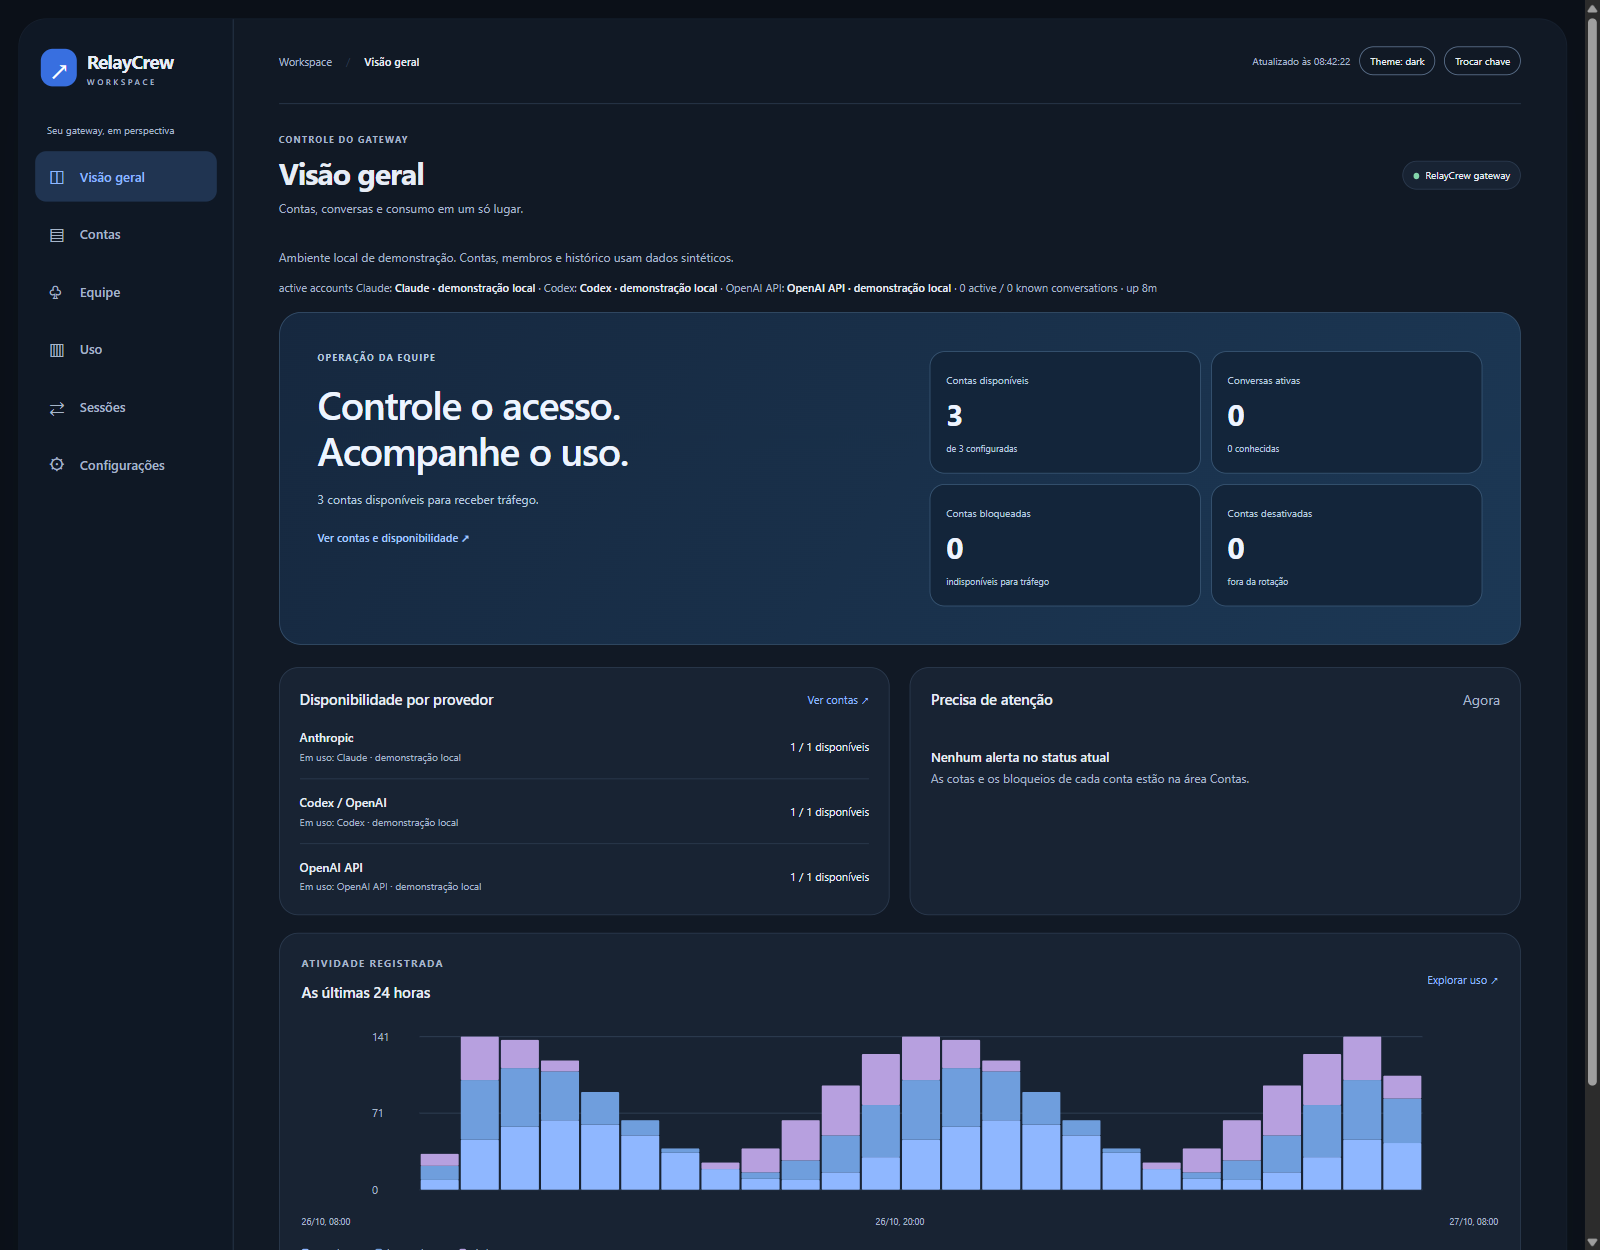
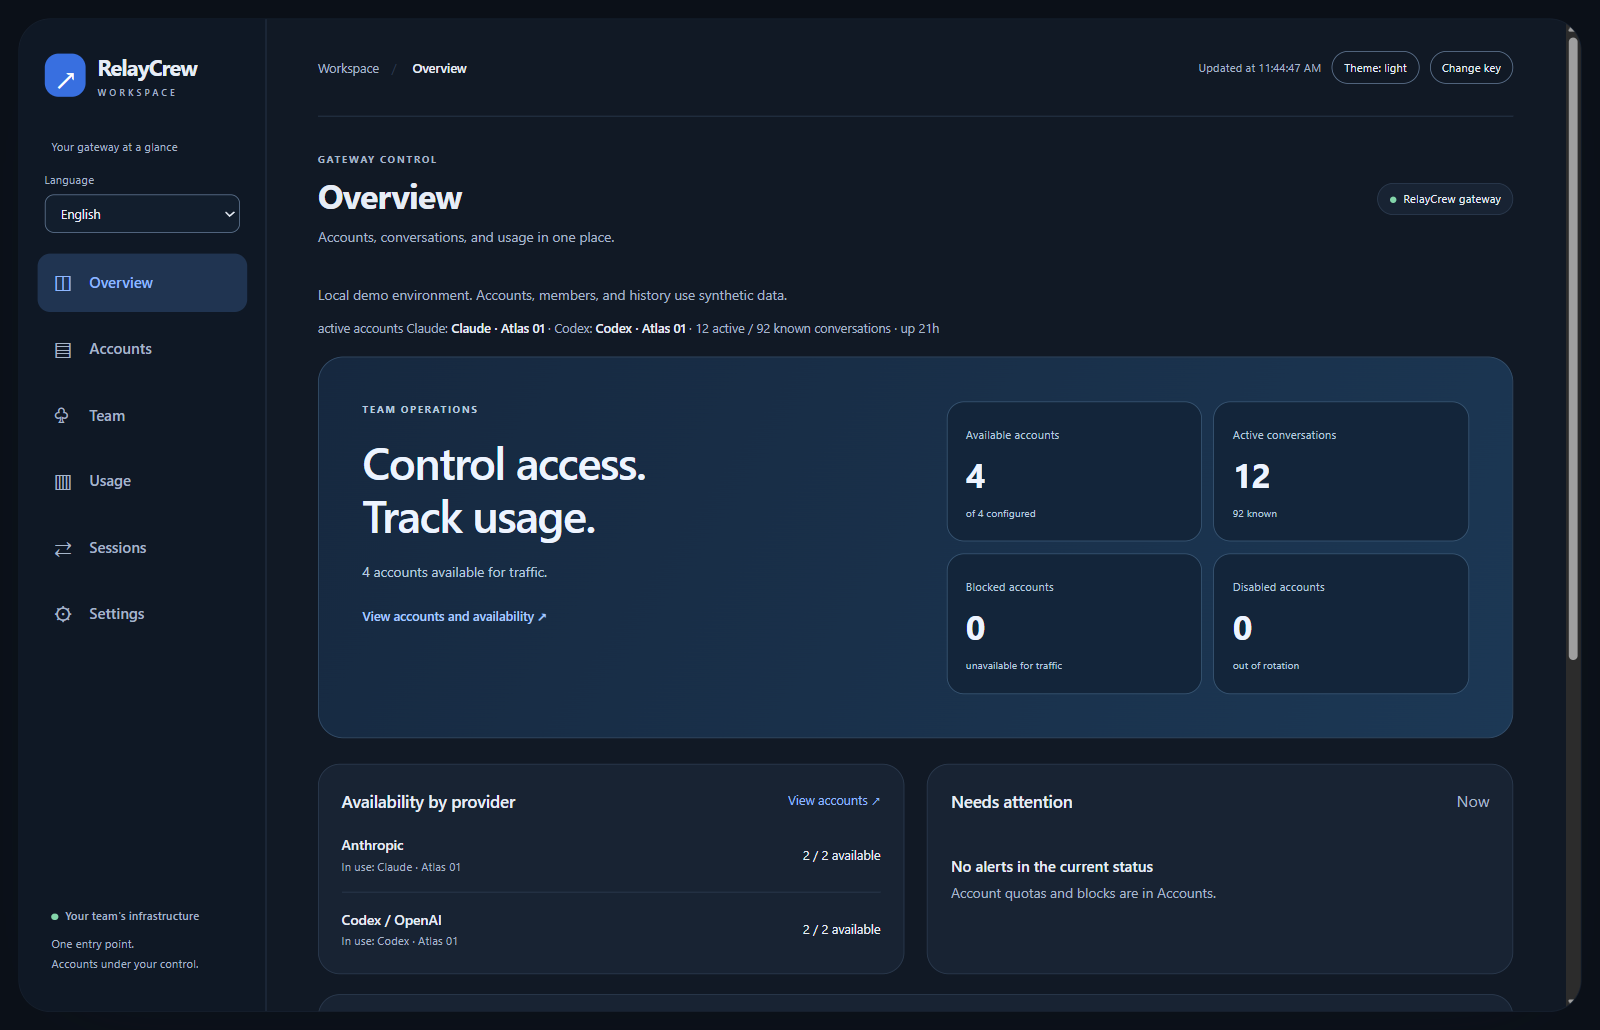
docs: refresh dashboard tour and README with English screenshots

diff --git a/docs/04-dashboard/README.md b/docs/04-dashboard/README.md
@@ -1,28 +1,28 @@
 # 04 · Dashboard tour
 
-Open `/relaycrew/dashboard` on your gateway and sign in with the administrator key. The following screenshots show the local preview with synthetic accounts, members, and history. The dashboard currently displays Portuguese interface labels.
+Open `/relaycrew/dashboard` on your gateway and sign in with the administrator key. The following screenshots show the local preview with synthetic accounts, members, and history. English is the default interface language. Use the language selector to switch to Portuguese (Brazil) or Spanish. The choice stays in this browser for this gateway. The screenshots below use English.
 
 ## Overview
 
-Overview (**Visão geral**) shows account availability, active conversations, provider pools, operational alerts, and recent activity. Follow a provider to Accounts or open Usage for the historical breakdown.
+Overview shows account availability, active conversations, provider pools, operational alerts, and recent activity. Follow a provider to Accounts or open Usage for the historical breakdown.
 
 ![RelayCrew overview in the light theme, showing account availability and recent activity.](../assets/screenshots/overview-light.png)
 
-The theme control cycles through system, light, and dark. Charts and form controls follow the selected palette.
+The theme control cycles through system, light, and dark. Charts and form controls follow the selected palette. The workspace stays inside the viewport with padding around it. Scroll the main content pane to reach the rest of a view; the sidebar stays in place.
 
 ![RelayCrew overview in the dark theme.](../assets/screenshots/overview-dark.png)
 
 ## Accounts
 
-Accounts (**Contas**) shows existing provider accounts, status, quota information when available, and routing controls. You can enable or disable accounts, change priority, and choose an active account. A missing quota reading is not a zero-usage reading.
+Accounts shows existing provider accounts, status, quota information when available, and routing controls. You can enable or disable accounts, change priority, and choose an active account. A missing quota reading is not a zero-usage reading.
 
-![Accounts view showing synthetic Claude, Codex, and OpenAI API accounts.](../assets/screenshots/accounts.png)
+![Accounts view showing synthetic Claude and Codex account pools.](../assets/screenshots/accounts.png)
 
 Connect or reconnect providers through the CLI as described in [provider accounts](../02-provider-accounts/README.md). Browser account onboarding is tracked in [issue #3](https://github.com/sep1ol/relaycrew/issues/3).
 
 ## Team
 
-Team (**Equipe**) lets you create members, select account grants, set concurrency, rotate keys, and revoke access. Key creation and rotation reveal a key once. Normal listings omit credentials.
+Team lets you create members, select account grants, set concurrency, rotate keys, and revoke access. Key creation and rotation reveal a key once. Normal listings omit credentials.
 
 ![Team view showing synthetic members, account permissions, concurrency, and usage.](../assets/screenshots/team.png)
 
@@ -30,17 +30,19 @@ After an account is added, update explicit grants for members who need it. A wil
 
 ## Usage
 
-Usage (**Uso**) shows distribution over time and totals by member or configured dimension. Choose the period, metric, grouping, and interval. Select a chart bucket to inspect its distribution, or open the interval table for the same values.
+Usage shows distribution over time and totals by member or configured dimension. Choose the period, metric, grouping, and interval. Select a chart bucket to inspect its distribution, or open the interval table for the same values.
 
 ![Usage view showing a stacked time series and distribution for synthetic members.](../assets/screenshots/usage.png)
+
+Click a legend color to choose a different color for that member or group. The choice is saved in this browser for this gateway and follows the same identity across chart order, periods, metrics, and views. Custom colors apply to both themes. Use the reset control to return to the default palette.
 
 History is limited to the last 24 hours. Missing activity does not prove uptime, and dimension totals describe the same traffic from different perspectives. Do not add those perspectives together or treat the chart as a bill.
 
 ## Sessions and settings
 
-Sessions (**Sessões**) shows conversation details when enabled and lets administrators pin sessions to accounts. Provider and member-grant checks still apply to a pin.
+Sessions shows conversation details when enabled and lets administrators pin sessions to accounts. Provider and member-grant checks still apply to a pin.
 
-Settings (**Configurações**) provides configuration reload, quota probes, the account-switch threshold, and current routing information. Advanced provider and routing settings remain in the server configuration file.
+Settings provides configuration reload, quota probes, the account-switch threshold, and current routing information. Advanced provider and routing settings remain in the server configuration file.
 
 See the [dashboard reference](../dashboard.md) for update behavior, administrative endpoints, concurrency conflicts, and history coverage. See [screenshot maintenance](../assets/screenshots/README.md) to refresh these images.
 

diff --git a/docs/assets/screenshots/README.md b/docs/assets/screenshots/README.md
@@ -1,21 +1,26 @@
 # Dashboard screenshots
 
-These PNGs show the local synthetic preview. They contain no real provider credentials, member keys, or private request data. The preview banner remains visible so the source of the data is clear.
+These PNGs show the actual dashboard with synthetic data. They contain no real provider credentials, member keys, or private request data. The demo banner remains visible in every image.
 
-The documentation tour images were captured on 2026-10-27 using Orca’s embedded browser. Their dashboard UI is from [6824367](https://github.com/sep1ol/relaycrew/commit/6824367), with a synthetic preview fixture representing separate Claude, Codex, and OpenAI API pools.
+The images were captured on 2026-10-27 using Orca's embedded browser and the English dashboard from [75a6917](https://github.com/sep1ol/relaycrew/commit/75a6917). The fixture represents four fictional Claude and Codex accounts and six team members. `usage.png` is also the README hero image for both GitHub themes.
 
-`readme-accounts-light.png` is the README image for both GitHub themes. It was captured on the same date from [9733195](https://github.com/sep1ol/relaycrew/commit/9733195), using the real Accounts view with fictional account names, quotas, and activity. The light-mode capture is 1600 × 1063 pixels at 135% zoom. The larger content makes Claude and Codex pools easier to read in the README.
+| Image | Theme | Viewport | Content zoom |
+| --- | --- | --- | --- |
+| `overview-light.png` | Light | 1600 × 1030 | 115% |
+| `overview-dark.png` | Dark | 1600 × 1030 | 115% |
+| `accounts.png` | Light | 1600 × 1060 | 115% |
+| `team.png` | Light | 1600 × 990 | 115% |
+| `usage.png` | Light | 1600 × 950 | 115% |
 
 ## Refresh the images
 
-1. Run `npm run preview` from a source checkout.
+1. Run `npm run preview` from a source checkout. This creates an isolated temporary configuration with synthetic accounts, members, and history.
 2. Open the printed dashboard URL in a browser. Use Orca's embedded browser when available.
-3. Sign in with the administrator key from the protected temporary configuration printed by the preview command.
-4. Use a desktop viewport of 1600 × 1250 CSS pixels. Wait for the data to load, then capture a normal viewport screenshot near the top of each view. Check that the image has no horizontal clipping or repeated sections. Avoid oversized viewport captures on a client-hosted browser.
-5. Capture Overview in light and dark themes as `overview-light.png` and `overview-dark.png`.
-6. Capture Accounts, Team, and Usage in the light theme as `accounts.png`, `team.png`, and `usage.png`.
-7. Check every image for stale content and accidentally exposed credentials before committing. Keep the synthetic-data banner visible and never capture a one-time key reveal.
-8. For `readme-accounts-light.png`, capture Accounts in light mode at 135% zoom with a 1600 × 1063 viewport. Use fictional quota readings and keep the demo label visible.
-9. Update the [visual tour](../../04-dashboard/README.md) if a control or workflow changed.
+3. Sign in with the administrator key from the protected temporary configuration printed by the preview command. Do not include the key or its reveal dialog in a screenshot.
+4. Choose English with the language selector. Reset any customized chart colors so the images show the default palette.
+5. Set the viewport and content zoom from the table. With CSS content zoom, keep the body height at `innerHeight / zoom` CSS pixels so the frame stays inside the viewport. Use a normal viewport capture rather than a full-page capture.
+6. Capture Overview in both themes and Accounts, Team, and Usage in light mode. Scroll the main content pane to the top before each capture. The frame and sidebar should stay inside the viewport with padding on every side.
+7. Check the images for English labels, fictional names, visible demo banners, clipping, repeated sections, and accidentally exposed credentials. Long views continue inside the scrollable pane.
+8. Update this provenance and the [visual tour](../../04-dashboard/README.md) when a control or workflow changes. Stop the preview after capture.
 
-Browser device scale can affect the PNG's pixel dimensions. The CSS viewport defines the layout. The documentation tour captures use 1600 × 1250 PNGs. Longer views continue below the captured viewport. Keep the screenshots as actual captures rather than mockups. Stop the preview after capture when it is no longer needed.
+The preview generates fresh synthetic activity, so its exact counts can differ from these images. Use fictional quota fixtures when demonstrating quota bars; a missing quota reading is not a zero-usage reading. Keep screenshots as browser captures rather than mockups.

diff --git a/docs/dashboard.md b/docs/dashboard.md
@@ -15,6 +15,14 @@ The page itself is public and contains no account data. Requests for data and co
 
 The dashboard updates the existing status snapshot every five seconds. Team and history data are fetched when their views need them. Errors remain visible rather than replacing missing data with a healthy status.
 
+## Language and chart preferences
+
+English is the default dashboard language. The language selector also offers Portuguese (Brazil) and Spanish. The browser remembers the selected language for this gateway. Dates and numbers follow the selected language; account names, model identifiers, and provider error messages retain their original values.
+
+Chart series use distinct default colors. Select a color in the legend to customize it, or use its reset control to restore the default. The same member or group keeps its color across the overview chart, Usage timeline, and distribution bars. Color preferences are stored in this browser for the current gateway, independently for each grouping. Custom colors apply to light and dark themes. Clearing browser storage removes these preferences. If storage is unavailable, the current page can still use the selection.
+
+The workspace frame fits inside the viewport with padding on every side. The main content pane owns vertical scrolling, while wide tables can scroll horizontally inside their wrappers. The page around the frame stays still.
+
 ## Manage team access
 
 Enable team mode with `relaycrew team init` before adding members. Provider sign-in still runs on the gateway through `relaycrew login`; provider credentials never need to reach a developer's browser.

diff --git a/docs/06-contributing/README.md b/docs/06-contributing/README.md
@@ -27,6 +27,18 @@ npm run typecheck:strict -- --base upstream/main
 
 The strict check compares diagnostics with the selected base. Focused tests can supplement the suite for the area you changed. Include the commands and results in your pull request.
 
+## Translate the dashboard
+
+The dashboard uses English source messages with Portuguese (Brazil) and Spanish catalogs in `src/dashboard-translations.js`. Add each new interface message to both catalogs and preserve every named `{placeholder}`. Keep account names, member names, model identifiers, and provider error text as data.
+
+Use the shared translator for dynamic copy and explicit translation attributes on static labels. Do not replace arbitrary DOM text or overwrite a container that contains a form control. Check the dashboard in all three languages, including dialogs, notices, chart legends, dates, numbers, and narrow screens. Language changes must preserve drafts and current selections.
+
+Run the localization and dashboard tests before submitting a translation change:
+
+```sh
+node --test test/dashboard-i18n.test.js test/dashboard-workspace.test.js test/dashboard.test.js
+```
+
 ## Follow the project policies
 
 Read the [code of conduct](../../CODE_OF_CONDUCT.md), [security reporting policy](../../SECURITY.md), [support guide](../../SUPPORT.md), and [maintainer process](../../MAINTAINERS.md). RelayCrew keeps the upstream MIT license and attribution. See [LICENSE](../../LICENSE) and [UPSTREAM.md](../../UPSTREAM.md).

diff --git a/README.md b/README.md
@@ -7,7 +7,7 @@ Self-hosted gateway for Claude Code and Codex. Run one gateway on a VPS, keep pr
 
 This community fork is maintained at [sep1ol/relaycrew](https://github.com/sep1ol/relaycrew). It retains the MIT license and history of [KarpelesLab/teamclaude](https://github.com/KarpelesLab/teamclaude). The upstream project targets individual use. This fork adds an explicit team access boundary.
 
-<img alt="RelayCrew accounts dashboard in light mode, showing Claude and Codex account pools, quota usage, and routing controls with fictional data." src="docs/assets/screenshots/readme-accounts-light.png">
+<img alt="RelayCrew usage dashboard in English and light mode, showing requests over time for a fictional team." src="docs/assets/screenshots/usage.png">
 
 [Read the documentation](docs/README.md) · [Deploy on a VPS](docs/teams.md) · [Explore the dashboard](docs/04-dashboard/README.md) · [Contribute](CONTRIBUTING.md)
 
